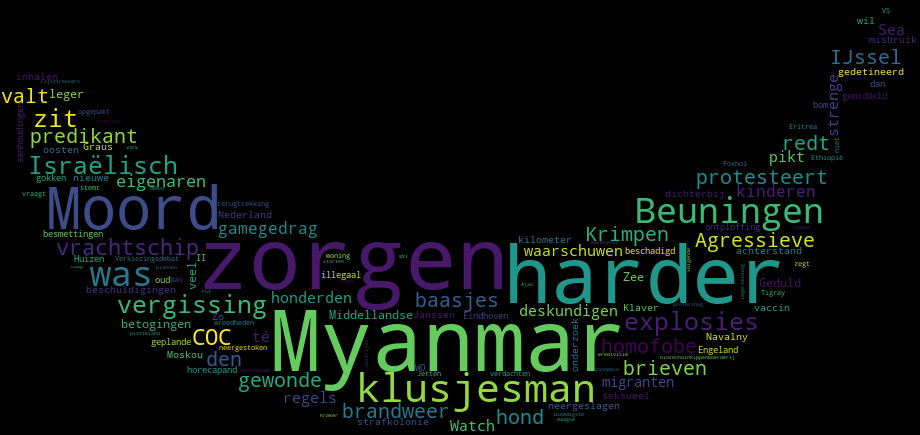
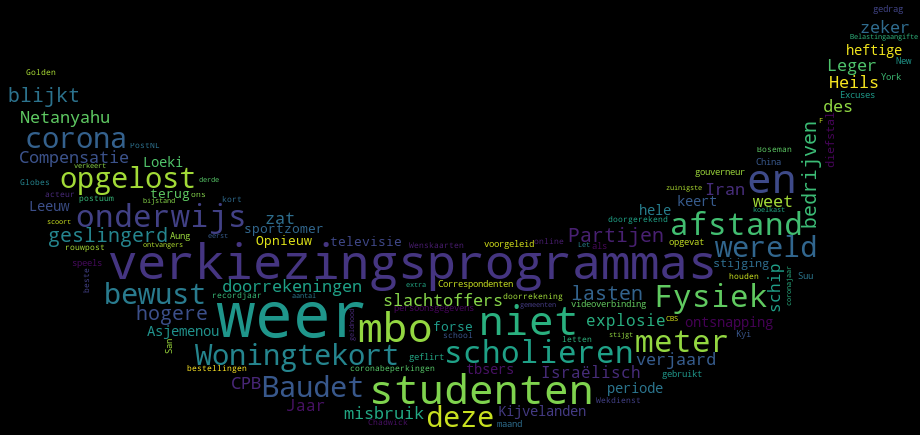
Final version of the Word Cloud programs, including comments.

Changed region(s): [[0.0, 0.0, 1.0, 1.0]]

diff --git a/Word Cloud/nos_news_cloud.py b/Word Cloud/nos_news_cloud.py
@@ -1,9 +1,16 @@
+# nos_news_cloud.py
+# This program downloads the 20 most recent news articles from the Dutch NOS news website RSS feed.
+# These headlines are then used to create a word cloud and save it as a .png file.
+
+# Import the necessary modules.
 from wordcloud import WordCloud
 import numpy as np
 from PIL import Image
 import feedparser
 
 
+# This function creates a list with common words like prepositions, pronouns and auxilary verbs.
+# These words will be left out of the word cloud to increase the information density.
 def create_stopwords():
     file = open('./Resources/stopwoorden.txt')
 
@@ -15,11 +22,14 @@ def create_stopwords():
     return stopwords_list
 
 
+# This function reads the RSS feed from the Dutch news website NOS.nl and creates a string out of it.
 def get_feed():
 
     d = feedparser.parse('http://feeds.nos.nl/nosnieuwsalgemeen')
 
     title_string = ''
+
+    print('The most recent headlines of the Dutch NOS news are:\n')
 
     for post in d.entries:
         print(post.title)
@@ -28,6 +38,8 @@ def get_feed():
     return title_string
 
 
+# This function goes through a string character by character and removes different punctuation marks and other special characters.
+# The function then returns the changed list.
 def remove_special_char(text):
 
     new_text = ''
@@ -39,6 +51,7 @@ def remove_special_char(text):
     return new_text
 
 
+# This function creates a word cloud from a given text.
 def create_wordcloud(text):
 
     # Create an array for the mask.
@@ -47,7 +60,7 @@ def create_wordcloud(text):
     # Create a set of stopwords that will be left out of the word cloud.
     stopwords = set(create_stopwords())
 
-    # Create word cloud object
+    # Create word cloud object.
     wc = WordCloud(background_color='black', max_words=200, mask=mask, stopwords=stopwords)
 
     # Generate the word cloud.
@@ -57,4 +70,8 @@ def create_wordcloud(text):
     wc.to_file('./Output/nos_news_cloud_output.png')
 
 
+# Create the word cloud by getting the headlines from the RSS feed, removing the special characters and saving the word cloud in a .png file.
 create_wordcloud(remove_special_char(get_feed()))
+
+# Print a message to the user to indicate that the word cloud is finished and where the output can be found.
+print('\nThe word cloud is succesfully created. You can find the word cloud in the output folder.')

diff --git a/Word Cloud/wikipedia_cloud.py b/Word Cloud/wikipedia_cloud.py
@@ -1,21 +1,22 @@
+# wikipedia_cloud.py
+# This program requests a search query from the user.
+# This query is then used to download the summery text of the corresponding wikipedia article.
+# This summary is then used to create a word cloud, which is saved as a .png file.
+
+# Import the necessary modules.
 import wikipedia
 from wordcloud import WordCloud, STOPWORDS
 import numpy as np
 from PIL import Image
 
 
-# TODO: waarom werkt het selecteren van het eerste zoekresultaat (title) niet? met .page(query) werkt het wel.
 # Get the content of a wikipedia article.
 def get_wiki(query):
-
-    # Store the first suggested page as the title.
-    title = wikipedia.search(query, results=3)
-    print(title)
 
     # Get the wikipedia page for selected title.
     page = wikipedia.page(query)
 
-    return page.content
+    return page.summary
 
 
 # Create a word cloud for a given text in the shape of a tophat.
@@ -27,7 +28,7 @@ def create_wordcloud(text):
     # Create a set of stopwords that will be left out of the word cloud.
     stopwords = set(STOPWORDS)
 
-    # Create word cloud object
+    # Create word cloud object.
     wc = WordCloud(background_color='black', max_words=200, mask=mask, stopwords=stopwords)
 
     # Generate the word cloud.
@@ -37,8 +38,14 @@ def create_wordcloud(text):
     wc.to_file('./Output/wikipedia_cloud_output.png')
 
 
+# Introduce the program to the user.
+print('This program takes a search query and will make a word cloud from the summary of the wikipedia article.\n')
+
 # Request a topic from the user to make a word cloud with. Note: the user will get an error when there are more than 1 possible pages.
 topic = input('Please enter the topic for the word cloud: ')
 
 # Create the word cloud with the given input.
 create_wordcloud(get_wiki(topic))
+
+# Print a message to the user to indicate that the word cloud is finished and where the output can be found.
+print('\nThe word cloud is succesfully created. You can find the word cloud in the output folder.')
